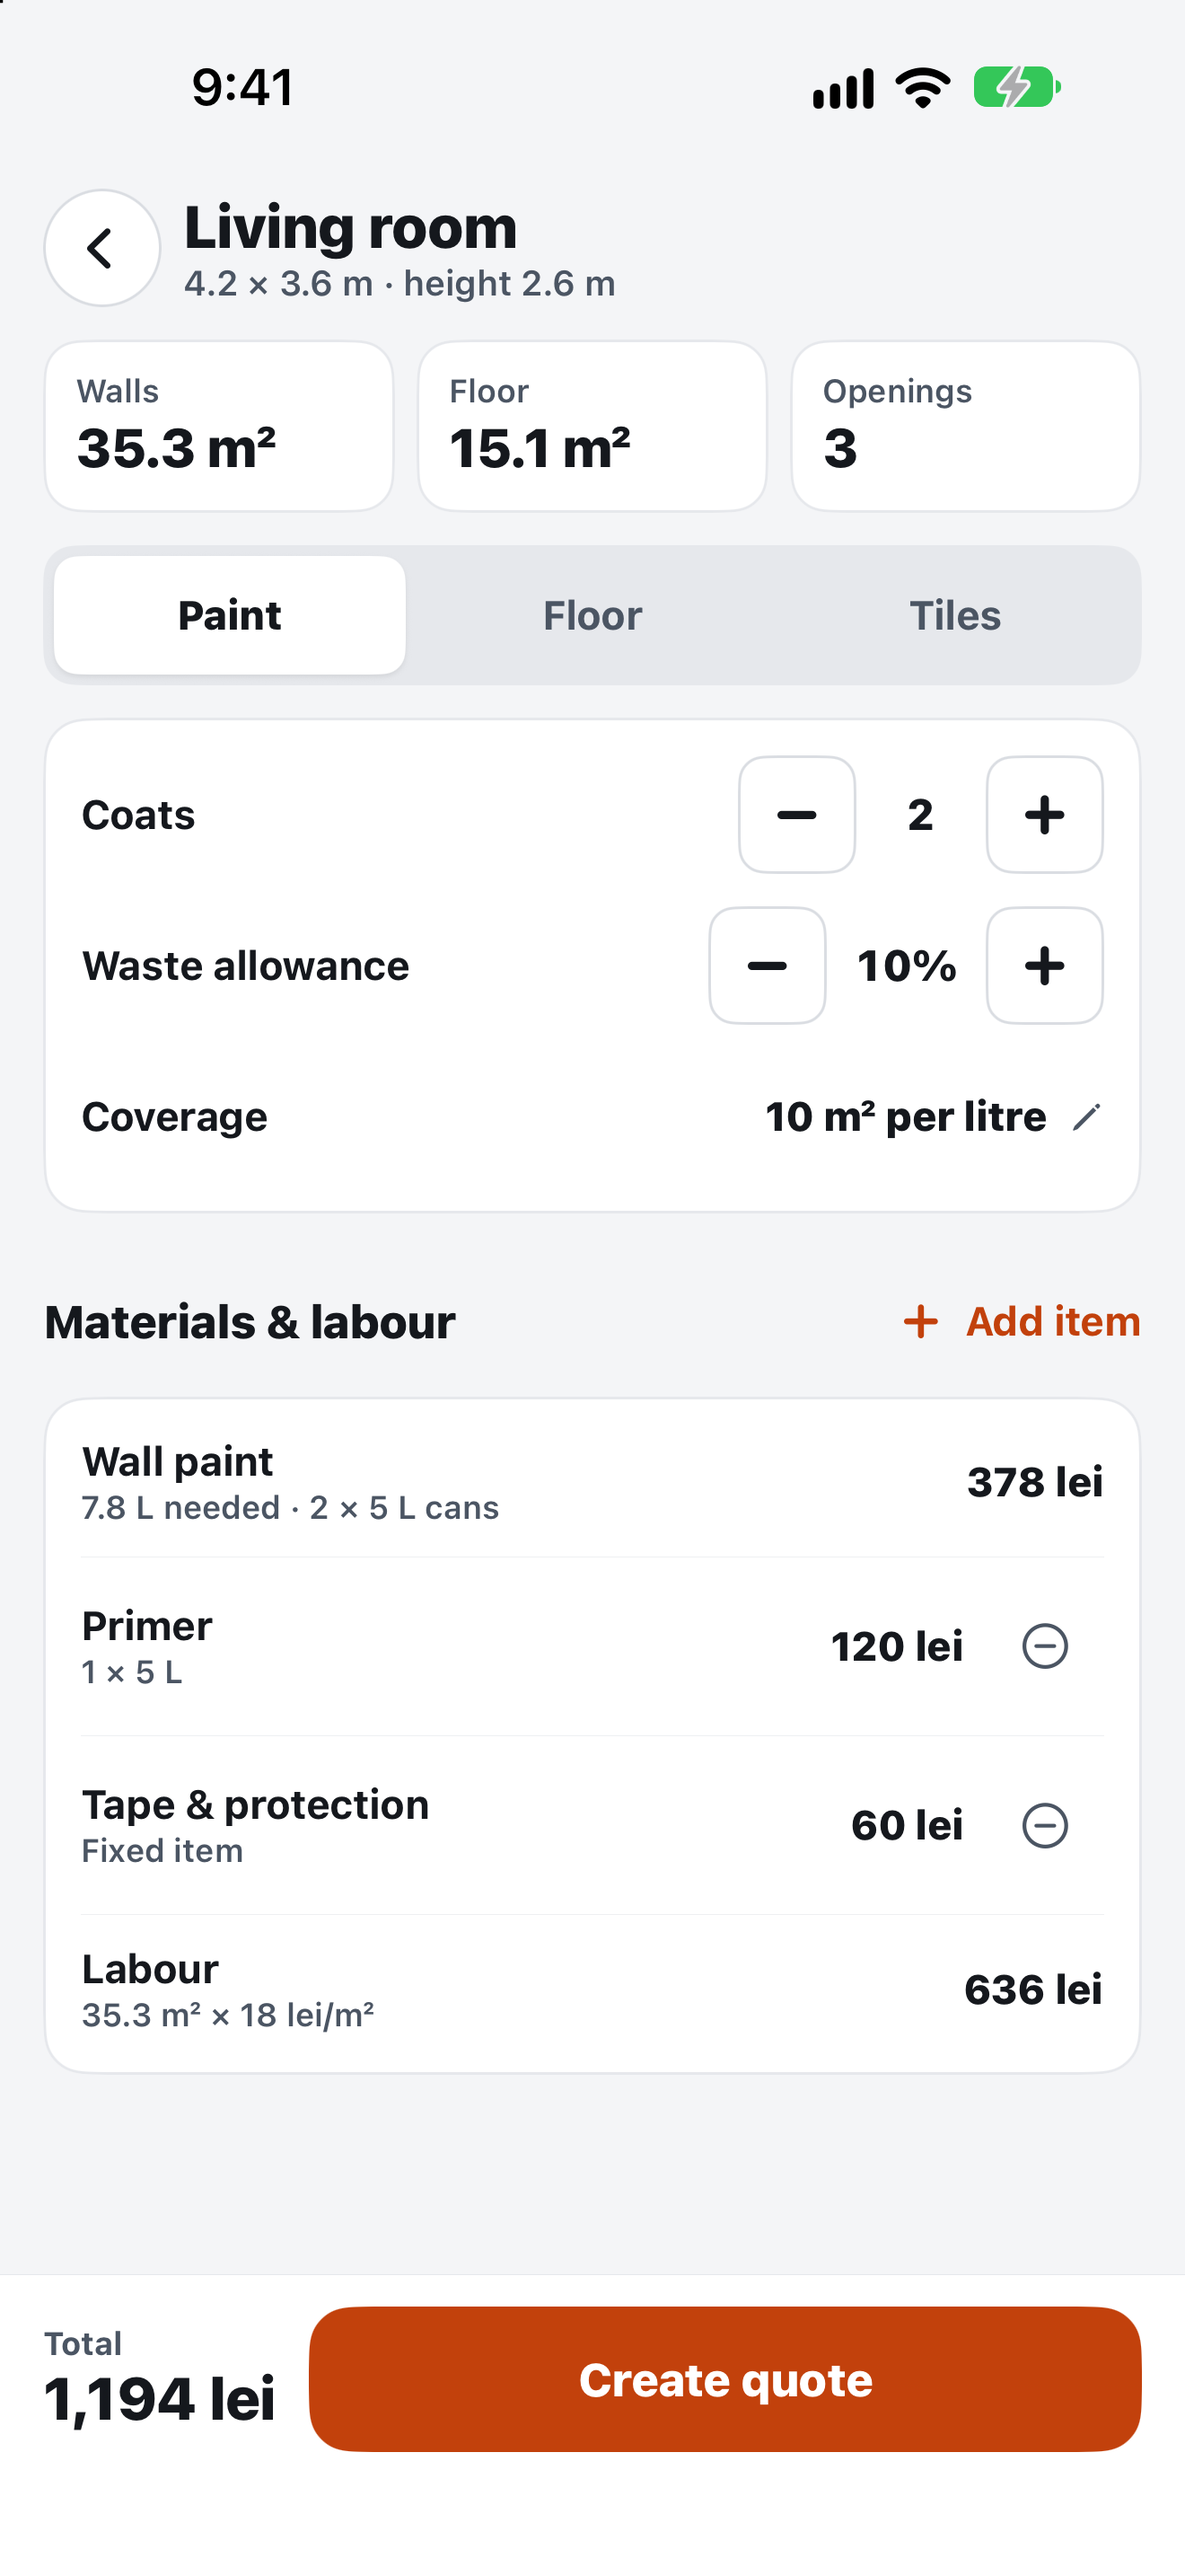
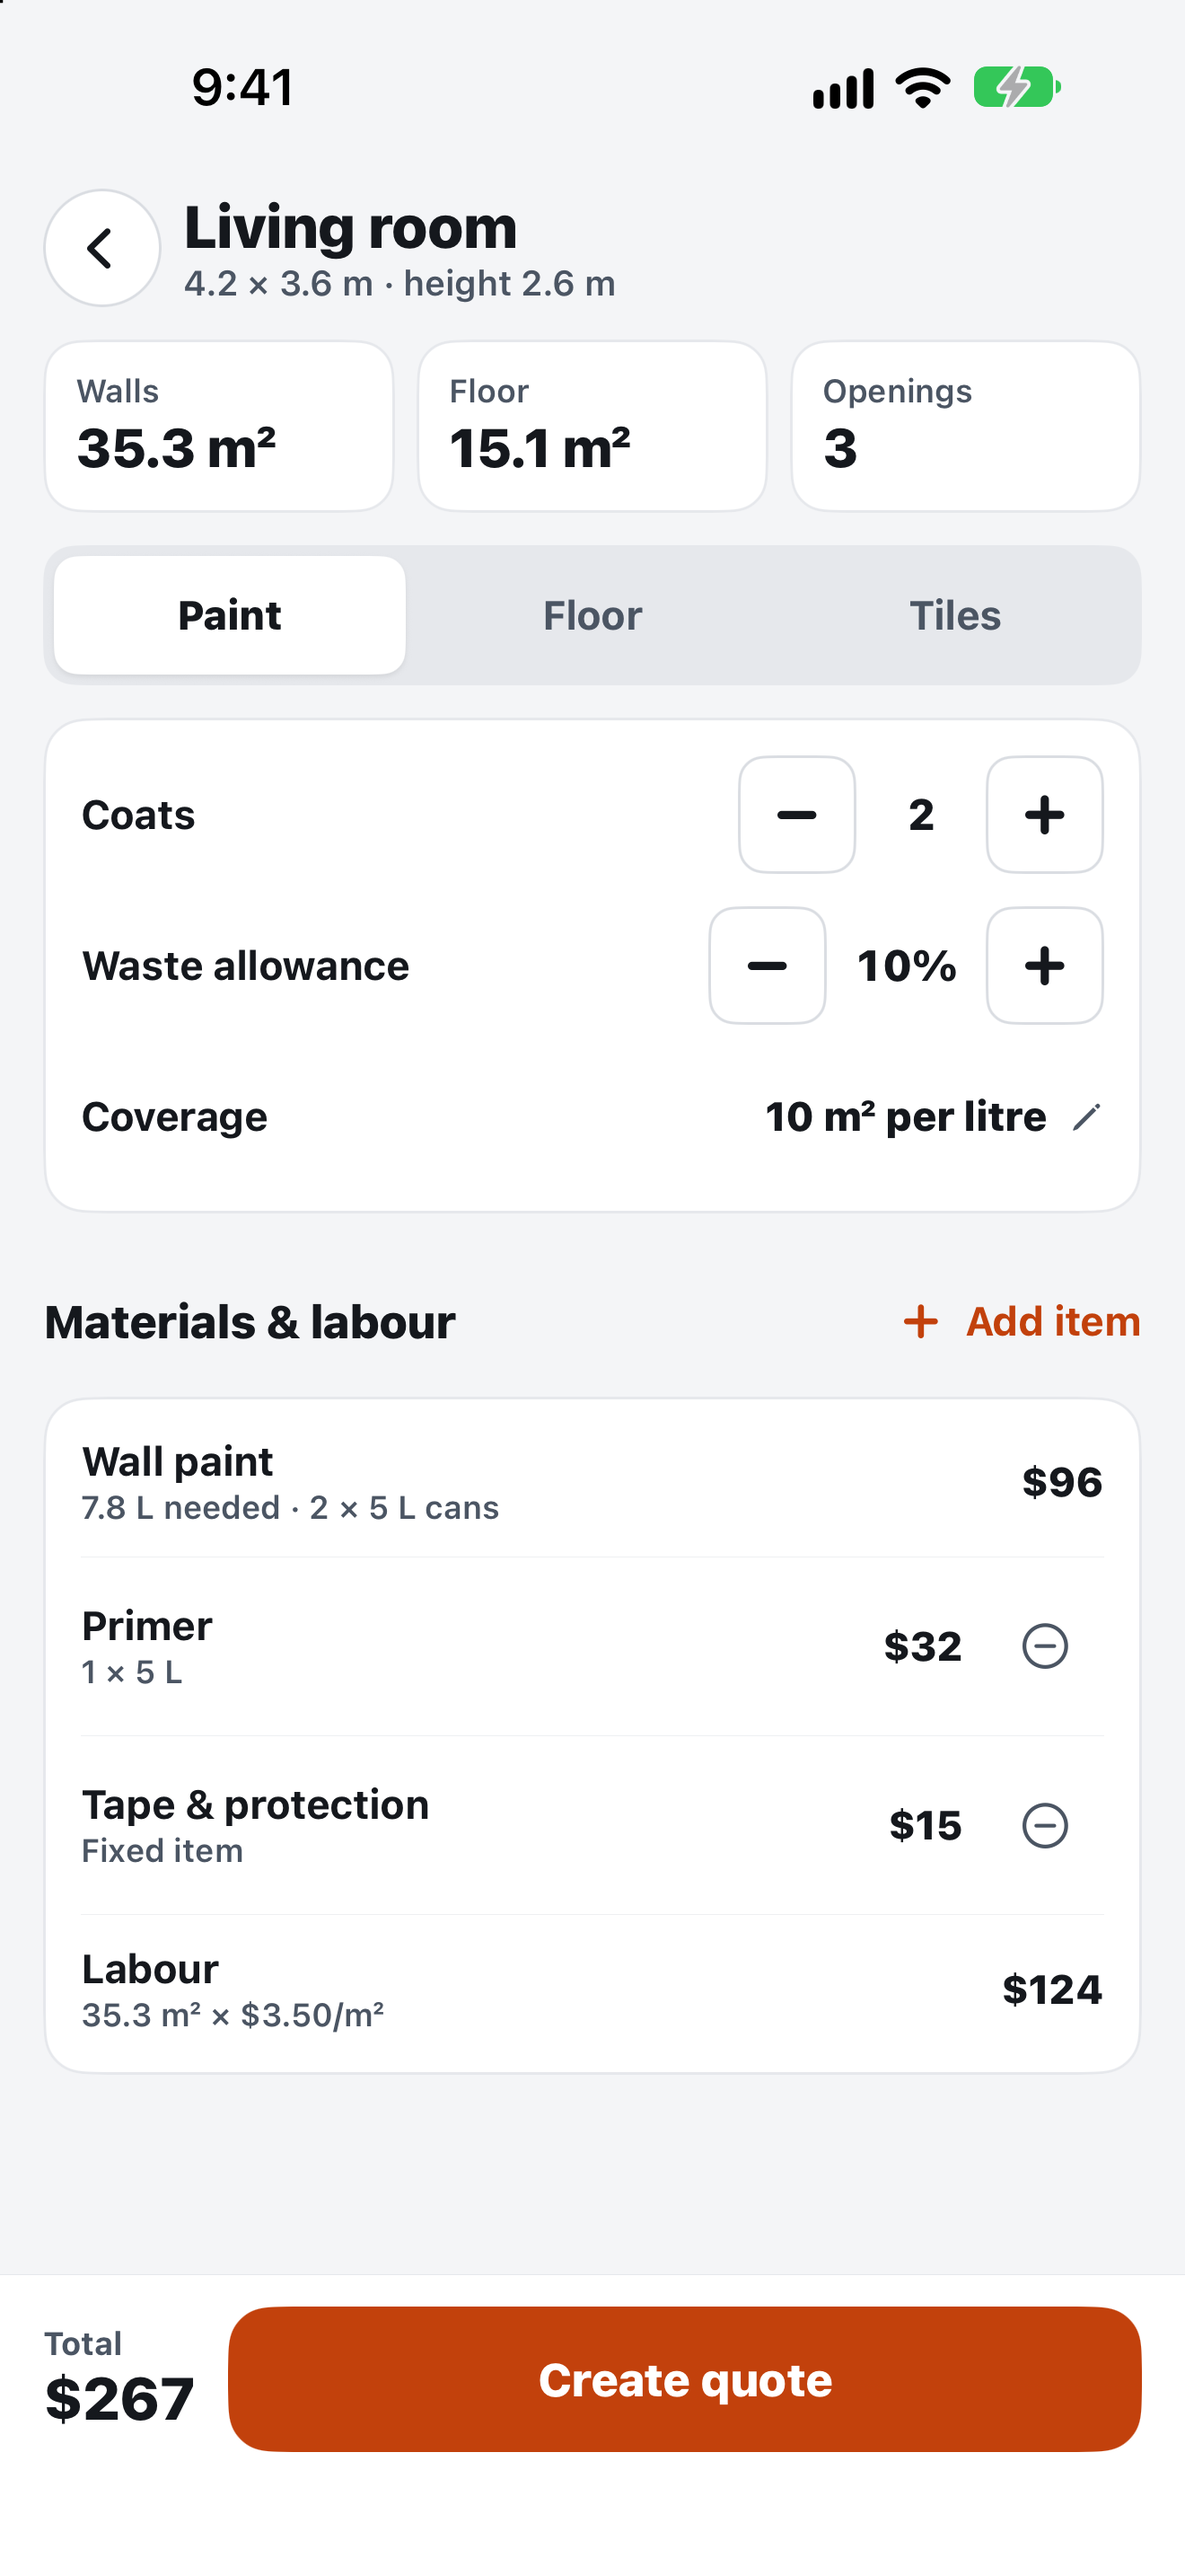
Screenshots in US dollars, plus a 3840x1646 header
- Debug-only -sampleUSD seeds US prices, business and client names
- Unit prices show cents when they aren't whole ($3.50/m²)
- marketing/build_header.py builds the wide header in the SnapWorth
  header style, reusing the screenshot device drawing

diff --git a/RoomQuote/App/SampleData.swift b/RoomQuote/App/SampleData.swift
@@ -13,7 +13,7 @@ enum SampleData {
             guard try context.fetchCount(FetchDescriptor<Quote>()) == 0,
                   try context.fetchCount(FetchDescriptor<PriceItem>()) == 0
             else { return }
-            try seed(context)
+            try seed(context, usd: ProcessInfo.processInfo.arguments.contains("-sampleUSD"))
         } catch {
             assertionFailure("Sample data failed: \(error)")
         }
@@ -22,25 +22,30 @@ enum SampleData {
 
     static func d(_ string: String) -> Decimal { Decimal(string: string, locale: Locale(identifier: "en_US_POSIX"))! }
 
-    static func seed(_ context: ModelContext, now: Date = .now) throws {
+    /// `usd` gives a US-dollar version (prices and names) for the App Store screenshots.
+    static func seed(_ context: ModelContext, now: Date = .now, usd: Bool = false) throws {
         let profile = try BusinessProfile.current(in: context)
-        profile.currencyCode = "RON"
-        profile.name = "Popa Renovări"
-        profile.phone = "0722 123 456"
-        profile.email = "office@poparenovari.ro"
+        profile.currencyCode = usd ? "USD" : "RON"
+        profile.name = usd ? "Carter Decorating" : "Popa Renovări"
+        profile.phone = usd ? "(555) 014-2290" : "0722 123 456"
+        profile.email = usd ? "office@carterdecorating.example" : "office@poparenovari.ro"
         profile.quoteValidityDays = 14
         profile.terms = String(localized: "Materials priced at today's supplier rates.")
         profile.nextQuoteNumber = 30
 
+        // (paint, primer, tape, laminate, tiles, labour paint/floor/tiles)
+        let p: [Decimal] = usd
+            ? [48, 32, 15, d("38.99"), d("41.5"), d("3.5"), 9, 22]
+            : [189, 120, 60, d("144.57"), d("151.52"), 18, 40, 80]
         let prices: [PriceItem] = [
-            PriceItem(name: "Wall paint", category: .paint, unit: .can, unitPrice: 189, packSize: 5),
-            PriceItem(name: "Primer", category: .paint, unit: .can, unitPrice: 120, packSize: 5),
-            PriceItem(name: "Tape & protection", category: .other, unit: .item, unitPrice: 60),
-            PriceItem(name: "Laminate", category: .floor, unit: .box, unitPrice: d("144.57"), packSize: d("2.22")),
-            PriceItem(name: "Ceramic tiles", category: .tiles, unit: .box, unitPrice: d("151.52"), packSize: d("1.44")),
-            labour("Painting labour", rate: 18, job: .paint),
-            labour("Flooring labour", rate: 40, job: .floor),
-            labour("Tiling labour", rate: 80, job: .tiles)
+            PriceItem(name: "Wall paint", category: .paint, unit: .can, unitPrice: p[0], packSize: 5),
+            PriceItem(name: "Primer", category: .paint, unit: .can, unitPrice: p[1], packSize: 5),
+            PriceItem(name: "Tape & protection", category: .other, unit: .item, unitPrice: p[2]),
+            PriceItem(name: "Laminate", category: .floor, unit: .box, unitPrice: p[3], packSize: d("2.22")),
+            PriceItem(name: "Ceramic tiles", category: .tiles, unit: .box, unitPrice: p[4], packSize: d("1.44")),
+            labour("Painting labour", rate: p[5], job: .paint),
+            labour("Flooring labour", rate: p[6], job: .floor),
+            labour("Tiling labour", rate: p[7], job: .tiles)
         ]
         for (index, price) in prices.enumerated() {
             price.createdAt = now.addingTimeInterval(Double(index - prices.count))
@@ -54,7 +59,8 @@ enum SampleData {
         let created = calendar.date(byAdding: .day, value: -5, to: monthStart) ?? now
         func sent(_ hoursAgo: Double) -> Date { max(monthStart, now.addingTimeInterval(-hoursAgo * 3600)) }
 
-        let formatters = Formatters(currencyCode: "RON", unitSystem: .metric)
+        let formatters = Formatters(currencyCode: profile.currencyCode, unitSystem: .metric)
+        let names = usd ? ["Emma Clarke", "Jake Morales", "Olivia Reed"] : ["Ana Popescu", "Mihai Ionescu", "Elena Dinu"]
 
         func make(_ client: String, room: String, _ l: String, _ w: String, _ h: String,
                   openings: [OpeningDimensions] = [], type: JobType, status: QuoteStatus,
@@ -87,12 +93,12 @@ enum SampleData {
         }
 
         let primer = prices[1], tape = prices[2]
-        try make("Ana Popescu", room: "Living room", "4.2", "3.6", "2.6",
+        try make(names[0], room: "Living room", "4.2", "3.6", "2.6",
                  openings: [OpeningDimensions(kind: .door, width: d("0.9"), height: d("2.1")),
                             OpeningDimensions(kind: .window, width: d("1.2"), height: d("1.4"), quantity: 2)],
                  type: .paint, status: .sent, sentHoursAgo: 2, extras: [primer, tape])
-        try make("Mihai Ionescu", room: "Kitchen", "3.6", "3.28", "2.5", type: .tiles, status: .accepted, sentHoursAgo: 20)
-        try make("Elena Dinu", room: "2 bedrooms", "5.2", "5.27", "2.6", type: .floor, status: .paid, sentHoursAgo: 30)
+        try make(names[1], room: "Kitchen", "3.6", "3.28", "2.5", type: .tiles, status: .accepted, sentHoursAgo: 20)
+        try make(names[2], room: "2 bedrooms", "5.2", "5.27", "2.6", type: .floor, status: .paid, sentHoursAgo: 30)
         try make("", room: "Bathroom", "2.4", "2.0", "2.5", type: .tiles, status: .draft, sentHoursAgo: nil,
                  priced: false, source: .scan)
 

diff --git a/RoomQuote/Services/QuoteBuilder.swift b/RoomQuote/Services/QuoteBuilder.swift
@@ -145,12 +145,12 @@ enum QuoteBuilder {
         case .squareMetre:
             quantity = workArea.rounded(scale: 2)
             unit = .squareMetre
-            detail = String(localized: "\(formatters.area(quantity)) × \(formatters.money(price.unitPrice))/m²")
+            detail = String(localized: "\(formatters.area(quantity)) × \(formatters.rate(price.unitPrice))/m²")
             summary = String(localized: "\(price.name), \(formatters.area(quantity))")
         case .hour:
             quantity = 1
             unit = .hour
-            detail = String(localized: "1 h × \(formatters.money(price.unitPrice))/h")
+            detail = String(localized: "1 h × \(formatters.rate(price.unitPrice))/h")
             summary = price.name
         case .item:
             quantity = 1
@@ -184,11 +184,11 @@ enum QuoteBuilder {
             switch job.labourMode {
             case .perSquareMetre:
                 let area = formatters.area(item.quantity)
-                return (String(localized: "\(area) × \(formatters.money(item.unitPrice))/m²"),
+                return (String(localized: "\(area) × \(formatters.rate(item.unitPrice))/m²"),
                         String(localized: "Labour, \(area)"))
             case .perHour:
                 let hours = formatters.number(item.quantity, 1, minimumFractionDigits: 0)
-                return (String(localized: "\(hours) h × \(formatters.money(item.unitPrice))/h"),
+                return (String(localized: "\(hours) h × \(formatters.rate(item.unitPrice))/h"),
                         String(localized: "Labour, \(hours) h"))
             }
         case .material, .other:

diff --git a/RoomQuote/App/DebugLaunch.swift b/RoomQuote/App/DebugLaunch.swift
@@ -26,7 +26,7 @@ enum DebugLaunch {
     /// `-prefillManual` fills the measurement form with the living room from the designs.
     static func prefillIfRequested(_ model: ManualMeasurementsViewModel) {
         guard ProcessInfo.processInfo.arguments.contains("-prefillManual") else { return }
-        model.clientName = "Ana Popescu"
+        model.clientName = ProcessInfo.processInfo.arguments.contains("-sampleUSD") ? "Emma Clarke" : "Ana Popescu"
         model.roomName = "Living room"
         model.length = "4.2"
         model.width = "3.6"

diff --git a/RoomQuote/Shared/Formatting.swift b/RoomQuote/Shared/Formatting.swift
@@ -20,6 +20,11 @@ struct Formatters {
         )
     }
 
+    /// Unit prices (per m², per hour): whole amounts as "18 lei", others with cents ("$3.50").
+    func rate(_ value: Decimal) -> String {
+        money(value, fractionDigits: value == value.rounded(scale: 0) ? 0 : 2)
+    }
+
     /// Currencies conventionally written after the amount.
     static let suffixSymbols = ["RON": "lei"]
 

diff --git a/marketing/build_header.py b/marketing/build_header.py
@@ -1,0 +1,52 @@
+#!/usr/bin/env python3
+"""Build RoomQuote's wide header (3840x1646), in the style of SnapWorth's:
+a serif headline with one accent word on the left, two phones on the right,
+and slate and accent wedges in the corners. Reuses build_screenshots.py's
+device drawing, so the phones match the App Store set.
+
+    python3 marketing/build_header.py
+"""
+
+from PIL import Image, ImageDraw
+
+import build_screenshots as shots
+
+W, H = 3840, 1646
+
+
+def main() -> None:
+    canvas = Image.new("RGB", (W, H), shots.WHITE)
+    d = ImageDraw.Draw(canvas)
+    d.polygon([(0, 1060), (2050, H), (0, H)], fill=shots.SLATE)
+    d.polygon([(2400, 0), (W, 0), (W, 900)], fill=shots.ACCENT)
+
+    # Phones: the quote upright-ish in front, materials large and tipped behind it on the right.
+    shots.place(canvas, shots.CAPTURES / "materials.png", cx=3330, cy=1150, width=1250, angle=24, lean=0.10)
+    shots.place(canvas, shots.CAPTURES / "quote.png", cx=2560, cy=1330, width=820, angle=-6, lean=0.04)
+
+    # Headline, three lines, "leave" in the accent colour.
+    lines = [["Quote the job"], ["before you"], [("leave", shots.ACCENT), " the room."]]
+    size = 176
+    hf = shots.font("Fraunces", "Bold", size)
+    x0, y = 380, 400
+    for parts in lines:
+        x = x0
+        for part in parts:
+            text, colour = part if isinstance(part, tuple) else (part, shots.INK)
+            d.text((x, y), text, font=hf, fill=colour)
+            x += d.textlength(text, font=hf)
+        y += int(size * 1.05)
+
+    sf = shots.font("DMSans", "Regular", 62)
+    for line in ["Measure a room, price paint, floors or tiles,", "and send a PDF quote in minutes."]:
+        d.text((x0 + 6, y + 30), line, font=sf, fill=shots.INK)
+        y += 84
+
+    shots.OUT.mkdir(exist_ok=True)
+    path = shots.OUT / "header_3840x1646.png"
+    canvas.save(path, "PNG", optimize=True)
+    print(f"wrote {path}")
+
+
+if __name__ == "__main__":
+    main()
